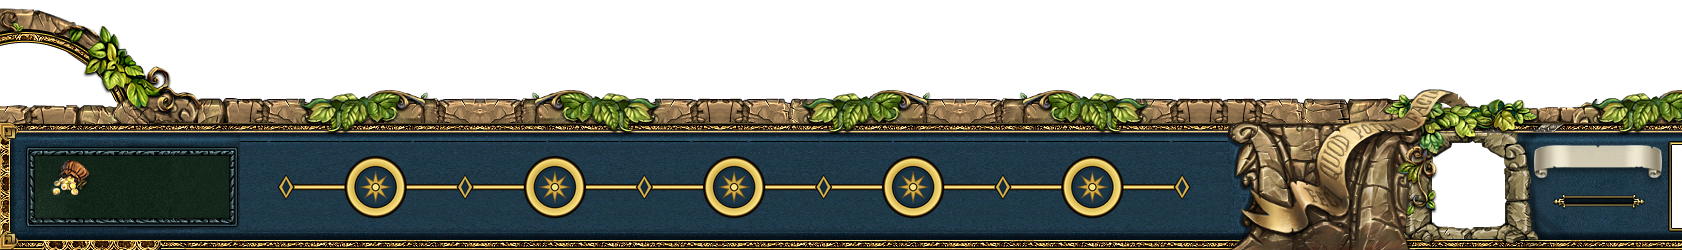
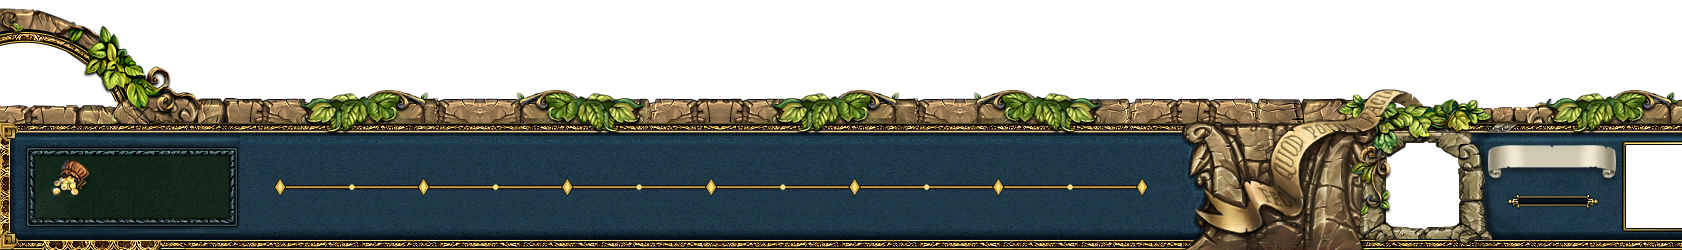
ui: мод 32:9 v4; docs: реальная структура игр, .kfs как zip, новые скрипты
Claude-Session: https://claude.ai/code/session_01MoS4NDZjyJjvtWs4tWxwpj

Changed region(s): [[0.1546, 0.336, 1.0, 1.0]]

diff --git a/docs/GAME_STRUCTURE.md b/docs/GAME_STRUCTURE.md
@@ -1,77 +1,61 @@
-# 🗂 Структура папки игры
+# 🗂 Структура игр серии
 
-Источник: вывод `ls` из PowerShell, который прислал владелец проекта.
-**Фрагмент неполный**: папка `loc_data` целиком, а из `models` только начало по алфавиту
-(до `collision_hellstones04.cms`, т.е. примерно буквы A–H). Остальные папки игры пока неизвестны.
-Полный снимок — задача для `tools/dump_structure.ps1` (см. ниже).
+Источник: `kfs_listing.csv` (содержимое всех `.kfs` Legend EE), `full_listing.csv`, `top_levels.txt`
+из `tools/dump_structure.ps1`, присланные владельцем (2026-11-24). Пометка ❓ — предположение.
 
-Пометка ❓ — предположение по именам файлов, не проверено.
+## Главный факт: `.kfs` — это zip
+Ресурсы игр хранятся в архивах `.kfs`. Они открываются любым архиватором (владелец проверил) и читаются
+как zip, в том числе из PowerShell (`System.IO.Compression.ZipFile`), **без распаковки и переименования**.
+Скрипт списка содержимого — `tools/list_kfs.ps1`.
 
-## Корень
-- Судя по выводу, у владельца игра лежит распакованной: `loc_data\` и `models\` прямо в корне папки `KB`. ❓ остальные папки не видны.
-- Для сравнения: в README мода 32:9 упомянут путь `...\KB The Legend EE\data\mods\16_9-nsf` и `sessions\base\ses\camera.txt`.
-  Как соотносятся эти пути с распакованным корнем — выяснить по полному снимку.
+## King's Bounty: The Legend EE (`...\Blefonix Studios\KB The Legend EE`)
+Файлов всего 5385. Игра **не** распакована; распакованные `loc_data`, `models`, `sky`, `sounds`, `textures`
+на рабочем столе владельца — результат ручной распаковки `.kfs`.
 
-## `loc_data\` — локализация (полностью)
-| Файл | Размер | Дата | Что это |
-|---|---|---|---|
-| `intro_speech_1..4.ogg` | 1.5–2 МБ | 02.04.2008 | озвучка вступления (OGG) |
-| `start_1clogo_rus.png` | 1.8 КБ | 29.08.2017 | логотип «1С» (рус.) |
-| `start_kataurilogo_rus.png` | 3.2 КБ | 29.08.2017 | логотип Katauri (рус.) |
-| `start_kblogo_rus.png` | 171 КБ | 29.08.2017 | логотип King's Bounty (рус.) |
-
-Даты 2017 года у логотипов намекают, что часть файлов обновлялась позже оригинала 2008 года
-(переиздание или патч) ❓.
-
-## `models\` — модели (фрагмент A–H)
-
-### Расширения
-| Расширение | Что вероятнее всего ❓ | Примеры |
+### `data\*.kfs`
+| Архив | Размер | Что внутри |
 |---|---|---|
-| `.bms` | статичные модели: здания, деревья, декор, детали арен | `abbey.bms`, `building_temple.bms` |
-| `.bma` | модели с анимацией: существа, герои, сундуки, флаги | `archer.bma`, `chest_blue.bma` |
-| `.bsa` | анимация/скелет (в фрагменте всего один) | `building_mill01_idle.bsa` |
-| `.cms` | коллизионные модели, имя `collision_<модель>.cms` | `collision_abbey.cms` |
+| `data.kfs` | 46 МБ | **все `.ui`** (104 шт.), `resolutions.txt`, `.atom` (2648), `.ptb` (1470), `.csh` (1068), `.bma` (508), `.cms` (356), `.track` (124), `.ani`, `.fnt`, 16 `.txt`, `.cfg`, 28 `.dds`, 8 `.png` |
+| `interface_textures.kfs` | 142 МБ | 204 `.png` — картинки интерфейса (например `mainpanel_bg_1680.png`) |
+| `textures.kfs` | 324 МБ | `.dds` 1950, `.png` 88, `.tga` 40, `.bmp` 1 |
+| `models.kfs` | 56 МБ | `.bms` 1771, `.cms` 1188, `.bma` 651, `.bsa` 2, `.bmc` 1 |
+| `animation.kfs` | 102 МБ | `.bsa` 2688, `.bft` 3 |
+| `sounds.kfs` | 172 МБ | `.wav` 2329, `.csv`, `.sfk`, `.gpk` |
+| `sky.kfs` | 52 МБ | `.bms` 15, `.dds` 84 |
+| `loc_data.kfs` | 8 МБ | озвучка вступления `.ogg` ×4, логотипы `.png` ×3 |
 
-Формат файлов на уровне байтов пока не изучен — это отдельная исследовательская задача.
+Рядом лежат обычные файлы: `app.ini`, `default.ini`, `game.ini`, `fonts.cfg`, `calibri.ttf`, папки `mods\`, `music\`, `video\`.
 
-### Семейства имён (префиксы)
-| Префикс | Что это ❓ |
-|---|---|
-| `ah_*` | персонажи/существа приключенческой части (имена героев и NPC) |
-| `arena_*` | объекты боевых арен (замок, гномы, орки, некроманты, инферно, пауки, лёд…) |
-| `building_*` | строения на глобальной карте и в городах |
-| `castle_*` | замки по расам (human, dwarf, elf, demon, dead, orc…) |
-| `cave1_*`, `cave_*` | пещеры: камни, корни, грибы, скелеты |
-| `auttree*`, `arena_auttree*` | деревья (варианты `dark`, `fluffy`, `red`, `yellow`) |
-| `bridge_*` | мосты |
-| `chest*`, `bigchest*` | сундуки (`_nos` — вариант без чего-то ❓) |
-| `book*` | книги (школы магии: chaos, distor, order, death, life, illusion) |
-| `dead*`, `elf*`, `dwarf*`, `demon*` | декор биомов и рас |
-| `collision_*` | коллизии для моделей выше |
+### `sessions\base\` (5271 файл — не в архивах)
+`.loc` 2172, `.lng` 1613, `.chat` 405, `.act` 347, `.lu` 254, `.stream` 183 (до 114 МБ — текстуры локаций),
+`.qst` 122 (квесты), `.hero` 90, `.lua` 43, `.txt` 51.
+Папка `ses\` — игровые скрипты и настройки: `camera.txt`, `forms.txt`, `config.txt`, `autoconfig.txt`, `arena.lua`, `spells.lua`, `skills.txt`, `items.txt` и др.
 
-### Наблюдения
-- Почти у каждого объекта карты есть пара `collision_<имя>.cms`. У существ коллизии очень маленькие (~450–470 байт).
-- Крупные коллизии: `collision_demonisland01..04.cms` (100–133 КБ), `collision_head_bigturtle.cms` (~99 КБ) — сложные уровни/острова.
-- Почти все файлы датированы 01.08.2008. Исключение в видимой части: `building_dwarflab01.bma` (04.09.2017) — единственная модель, правленая позже.
-- У существ часто есть варианты: `_death`, `_red`, `_white`, `_egg01`, `high` (вариант высокой детализации? ❓).
-- Отдельно стоят `ah_free_*` — вероятно, свободные юниты/NPC ❓.
+### Как игра выбирает интерфейс
+- `data.kfs\resolutions.txt` (44 байта) — таблица `соотношение=логическое разрешение`.
+- `sessions\base\ses\forms.txt` — список окон; для каждого `ui=` по умолчанию и варианты по разрешению (`1680x945=...`).
+- Окна без варианта под разрешение берут `ui=` по умолчанию (рассчитан на 4:3) — на 32:9 такое окно встаёт у **левого** края.
+  Так уезжает журнал заданий (`quests_journal.ui`, 5,7 КБ, вариантов нет). Нужны 3360×945-версии всех таких окон.
+- Мод `data\mods\<имя>\` перекрывает `forms.txt` и `resolutions.txt`.
 
-## Чем это полезно проекту
-- Для широких экранов: сколько объектов и какие модели «видны» при дальней камере (см. `ClipDist`, `ZFAR` в [GAME_NOTES.md](GAME_NOTES.md)).
-- Для будущих задач с графикой: понять, какие форматы нужно читать/конвертировать, прежде чем менять модели и текстуры.
+### `.ui` в `data.kfs` (вариантов под широкие разрешения нет, кроме отмеченных)
+Окна без вариантов: `hero`, `book`, `quests_journal`, `options`, `records`, `save_load`, `menu`, `casket`, `bigmap`, `buy*`,
+`sale_items`, `sell_scrolls`, `use_items`, `throwout`, `drop_items`, `deletion`, `reserve`, `separation`, `moving*`,
+`level_up`, `sp_level_up`, `dialog`, `splash_*`, `victory_*`, `lose_*`, `dlg_chesspiece`, `info_chesspiece`.
+С вариантами (1280×1024, 1680×1050): `arena`, `map`, `start`, `new_game`, `credits`, `intro`, `loading`, `town_1`.
+Карты локаций: `<локация>.ui` и `<локация>_clouds.ui` (облака на глобальной карте).
 
-## Как получить полный снимок
-Владелец запускает в корне игры:
+## Остальные игры серии
+Все на том же движке, тот же набор `.kfs`.
 
-```powershell
-powershell -ExecutionPolicy Bypass -File .\dump_structure.ps1 -GameRoot .
-```
+| Игра | Папка | Размер, файлов | Особенности |
+|---|---|---|---|
+| Warriors of the North | `King's Bounty Warriors of the North` | 5868 | `data\*.kfs` + патчи `patch_001..003.kfs`, `declarations.kfs`; сессии `addon`, `ice_and_fire` (`ses.kfs`, локализации `*_loc_ses_iaf.kfs`) |
+| Crossworlds | `Kings Bounty - Crossworlds` | 3962 | редактор карт `editor\` (3310 файлов), сессии `addon`, `champion`, `defender`, `orcs` |
+| Crossworlds: Red Sands | `Kings Bounty Crossworlds - red sands` | 5286 | **`.ui` и `forms.txt` лежат обычными файлами** в `sessions\red_sands\red_sands_ses\schemes\` и `...\config\`; есть **официальные `start_1680x945.ui` и `town_1680x945.ui`** — образец 16:9 от разработчиков |
+| Dark Side | `Kings Bounty Dark Side` | 7258 | `data.kfs` 11 МБ, `textures_game.kfs`, отдельные локализации (`loc_data_eng/ger/pol.kfs`), `sessions\darkside\ses.kfs`, 4705 `.wav` лежат вне архива |
 
-Скрипт — [`tools/dump_structure.ps1`](../tools/dump_structure.ps1). Он создаёт папку `kb_structure`:
-- `summary.csv` — по каждой папке и расширению: число файлов и суммарный размер;
-- `top_levels.txt` — дерево папок до глубины 3;
-- `full_listing.csv` — полный список файлов (путь, размер, дата).
-
-Достаточно прислать `summary.csv` и `top_levels.txt`; полный список — по необходимости.
-В выводе только относительные пути, личных данных там нет.
+## Ещё не изучено ❓
+- Байтовые форматы `.bms/.bma/.bsa/.cms/.atom/.ptb/.csh/.stream`.
+- Какие поля интерфейс получает от движка (список имён в `.ui` — что можно показывать на панели).
+- Откуда игра берёт картинки мода (папка мода или только `.kfs`).

diff --git a/docs/GAME_NOTES.md b/docs/GAME_NOTES.md
@@ -1,6 +1,6 @@
 # 🎮 Заметки о структуре игры
 
-Собрано из мода `32x9-ui` (v3). Структура папок и файлов — в [GAME_STRUCTURE.md](GAME_STRUCTURE.md). Дополняйте проверенными фактами; непроверенное помечайте ❓.
+Собрано из мода `32x9-ui` (v4) и списков файлов игры. Структура папок и файлов — в [GAME_STRUCTURE.md](GAME_STRUCTURE.md). Дополняйте проверенными фактами; непроверенное помечайте ❓.
 
 ## Расположение (игра King's Bounty: The Legend)
 - Моды интерфейса: `<папка игры>\data\mods\16_9-nsf\` — мод 32:9 копируется поверх.
@@ -20,6 +20,15 @@
 ## Файлы интерфейса мода
 - `*_3360x945.ui` — экраны: map, arena, start, new_game, intro, loading, town, credits.
 - `mainpanel_bg_3360_a/b.png` — нижняя панель (1682×250 и 1680×250), лежат рядом с `.ui`.
+
+## Как устроена панель карты (v4)
+- `map_*.ui` — логическое разрешение 1680×945 (16:9) / 3360×945 (32:9); движок масштабирует интерфейс одинаково по осям.
+- Нижняя панель — одна картинка `mainpanel_bg_*.png` с «дырками» под слоты, кнопки и миникарту; сами слоты/кнопки — отдельные объекты `.ui` поверх неё.
+  Поэтому увеличение блока = перерисовка куска панели + пересчёт координат объектов.
+- Блоки панели в 32:9: левый (деньги) у левого края, центральный (герой, слоты, 4 кнопки) по центру, миникарта у правого края; промежутки заполнены каменным парапетом с плющом и синим полем (генерация — Claude, скрипты не в репозитории).
+
+## Окна без 32:9-варианта (известная проблема)
+Журнал заданий и другие окна (см. GAME_STRUCTURE.md) берут `ui=` по умолчанию и встают у левого края. Решение: сделать `*_3360x945.ui` (сдвиг по центру) и строки `3360x945=` в `forms.txt`. Нужны оригинальные `.ui` из `data.kfs` (`tools/extract_ui.ps1`).
 
 ## Открытые вопросы
 - ❓ Подхватывает ли игра `.png` из папки мода (если панель внизу пропала — нет).

diff --git a/docs/WORKLOG.md b/docs/WORKLOG.md
@@ -2,6 +2,13 @@
 
 Новые записи — **сверху**. Формат см. в [AGENTS.md](../AGENTS.md).
 
+### 2026-11-24 — Агент 1 (Claude) — Мод v4 + реальная структура игр
+- Сделано: мод 32:9 обновлён до v4 (кнопки панели вместе, без медальонов, плющ и линия). `GAME_STRUCTURE.md` переписан по спискам файлов: `.kfs` = zip, где лежат `.ui`, структура остальных игр серии (Red Sands содержит официальные 16:9 `.ui`). Добавлены `tools/list_kfs.ps1`, `tools/extract_ui.ps1`.
+- Не сделано / проблемы: мод не проверен в игре; журнал заданий (`quests_journal.ui`) и другие окна встают слева — нужны оригинальные `.ui`.
+- Следующий шаг (человек): запустить `tools/extract_ui.ps1` и прислать `kb_ui.zip`; проверить v4 в игре и заполнить таблицу в `mods/32x9-ui/README.md`.
+- Следующий шаг (Claude): сделать `*_3360x945.ui` для окон без вариантов и обновить `forms.txt`; изучить имена полей панели (можно ли вывести свитки/заклинания); решить, увеличивать ли блоки панели.
+- Ссылки: PR (ветка `agent/claude/ui-v4-structure`)
+
 ### 2026-11-24 — Агент 4 (Claude) — Достижения всей серии
 - Сделано: разобраны достижения/медали DS, WotN, Crossworlds, Red Sands, найдены русские тексты; сводка в `docs/ACHIEVEMENTS.md` (44 достижения, разбиты на A/B/C).
 - Не сделано / проблемы: в Legend нет системы медалей — неизвестно, понимает ли её движок; ничего не проверялось в игре. Файлы локализации и DS-конфиги в UTF-16.

diff --git a/docs/DECISIONS.md b/docs/DECISIONS.md
@@ -6,3 +6,5 @@
   (чтобы установка = копирование папки). Почему: проще проверять и откатывать.
 - **2026-11-24** Файлы игры в репозиторий не кладём. Почему: авторские права и размер.
 - **2026-11-24** Работа через ветки `agent/<имя>/<задача>` и PR. Почему: несколько агентов параллельно.
+- **2026-11-24** `.kfs` читаем как zip напрямую, без переименования и полной распаковки. Почему: проще и быстрее (список и выборочное извлечение через PowerShell).
+- **2026-11-24** На 32:9 блоки нижней панели карты разнесены по краям/центру, промежутки заполняются графикой. Почему: растягивание искажает рисунок, центрирование всей панели оставляет пустые края.

diff --git a/README.md b/README.md
@@ -11,8 +11,9 @@
 
 | Направление | Статус | Где |
 |---|---|---|
-| Интерфейс 32:9 (3360×945) | 🟡 v3, нужна проверка в игре | [`mods/32x9-ui`](mods/32x9-ui) |
-| Камера (отдаление) | 🟡 v3, нужна проверка | [`mods/32x9-ui/camera`](mods/32x9-ui/camera) |
+| Интерфейс 32:9 (3360×945) | 🟡 v4, нужна проверка в игре | [`mods/32x9-ui`](mods/32x9-ui) |
+| Окна без 32:9 (журнал заданий и др.) | 🔴 ждём `.ui` из `data.kfs` | [GAME_STRUCTURE](docs/GAME_STRUCTURE.md) |
+| Камера (отдаление) | 🟡 v4, нужна проверка | [`mods/32x9-ui/camera`](mods/32x9-ui/camera) |
 | Остальные разрешения / 21:9 / 4K | ⚪ не начато | [Roadmap](docs/ROADMAP.md) |
 | Графика / производительность | ⚪ не начато | [Roadmap](docs/ROADMAP.md) |
 | Удобство игры (QoL) | ⚪ не начато | [Roadmap](docs/ROADMAP.md) |

diff --git a/mods/32x9-ui/README.md b/mods/32x9-ui/README.md
@@ -1,6 +1,8 @@
 # Мод интерфейса и камеры 32:9 (3360×945)
 
-Версия: **v3** (импортирована из `KB_32x9_mod_v3.zip`). Автор: Агент 1.
+Версия: **v4** (из `KB_32x9_mod_v4.zip`). Автор: Агент 1.
+
+Изменения v4: четыре кнопки панели снова вместе (в v3 сетка была разрезана); убраны медальоны, остались плющ на парапете и тонкая золотая линия; центральный блок точно по центру экрана.
 
 ## Структура
 ```
